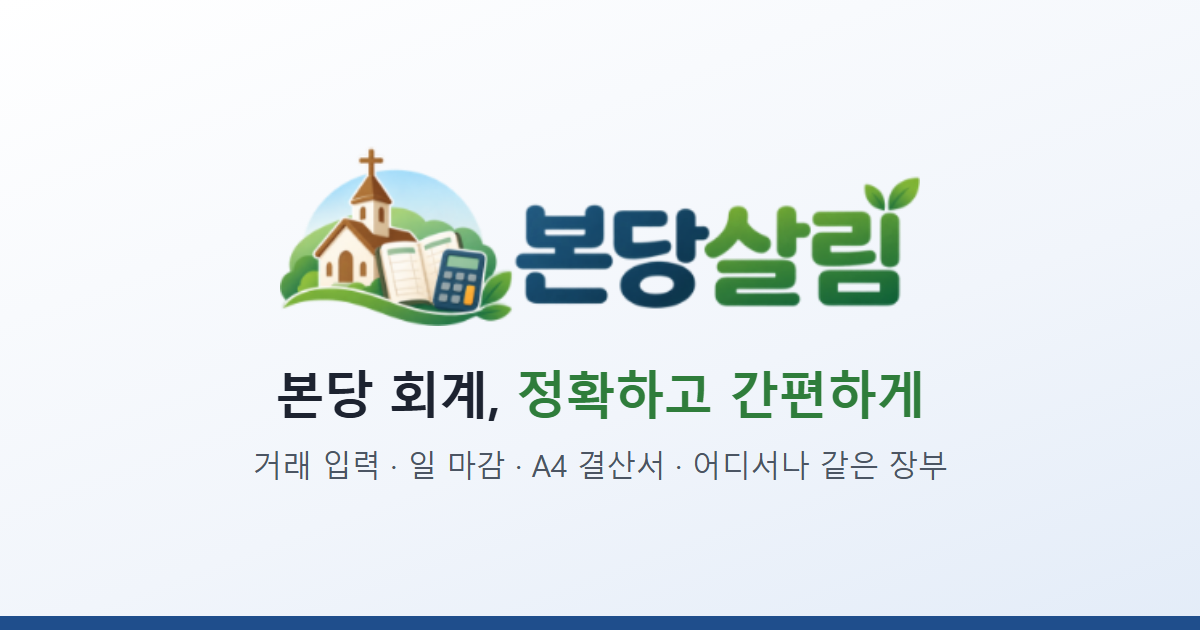
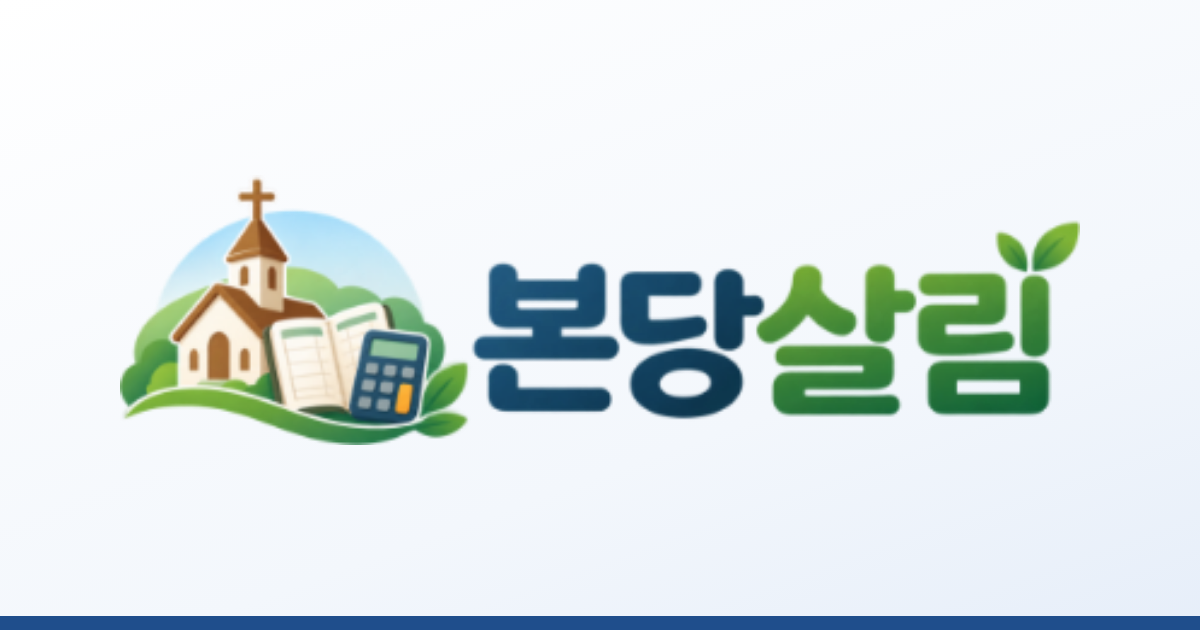
링크 미리보기: 로고만 크게, 제목·설명 문구 없앰

Changed region(s): [[0.0925, 0.2413, 0.925, 0.754]]

diff --git a/public/login.html b/public/login.html
@@ -3,13 +3,10 @@
 <head>
   <meta charset="utf-8">
   <meta name="viewport" content="width=device-width, initial-scale=1">
-  <title>본당살림 - 로그인</title>
-  <!-- 카카오톡·문자로 링크를 보낼 때 나오는 미리보기 (사이트 주소는 로그인 화면으로 이어진다) -->
-  <meta name="description" content="성당 사무실 회계를 정확하고 간편하게. 거래 입력, 일 마감, A4 결산서 인쇄까지 어디서나 같은 장부로.">
+  <title>본당살림</title>
+  <!-- 카카오톡·문자로 링크를 보낼 때 나오는 미리보기: 로고 그림과 주소만 (제목·설명 없음). 사이트 주소는 로그인 화면으로 이어진다 -->
   <meta property="og:type" content="website">
-  <meta property="og:site_name" content="본당살림">
-  <meta property="og:title" content="본당살림 · 본당 회계, 정확하고 간편하게">
-  <meta property="og:description" content="거래 입력, 일 마감, A4 결산서 인쇄까지. 성당 사무실과 집 어디서나 같은 장부를 씁니다.">
+  <meta property="og:title" content="">
   <meta property="og:url" content="https://bondang-salim.jangsangyun0310.workers.dev/">
   <meta property="og:image" content="https://bondang-salim.jangsangyun0310.workers.dev/img/og.png">
   <meta property="og:image:width" content="1200">
